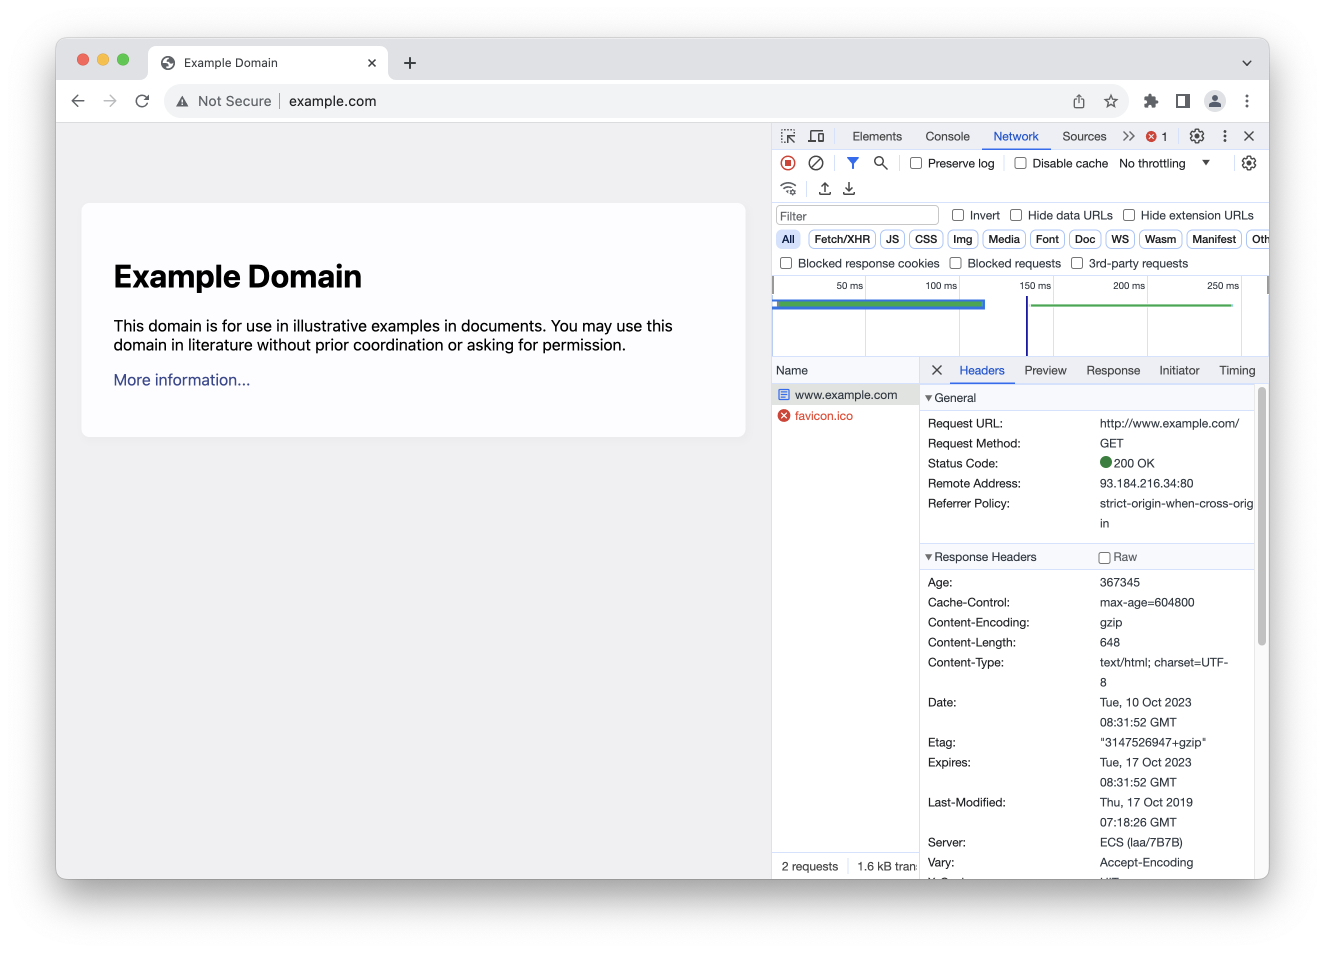
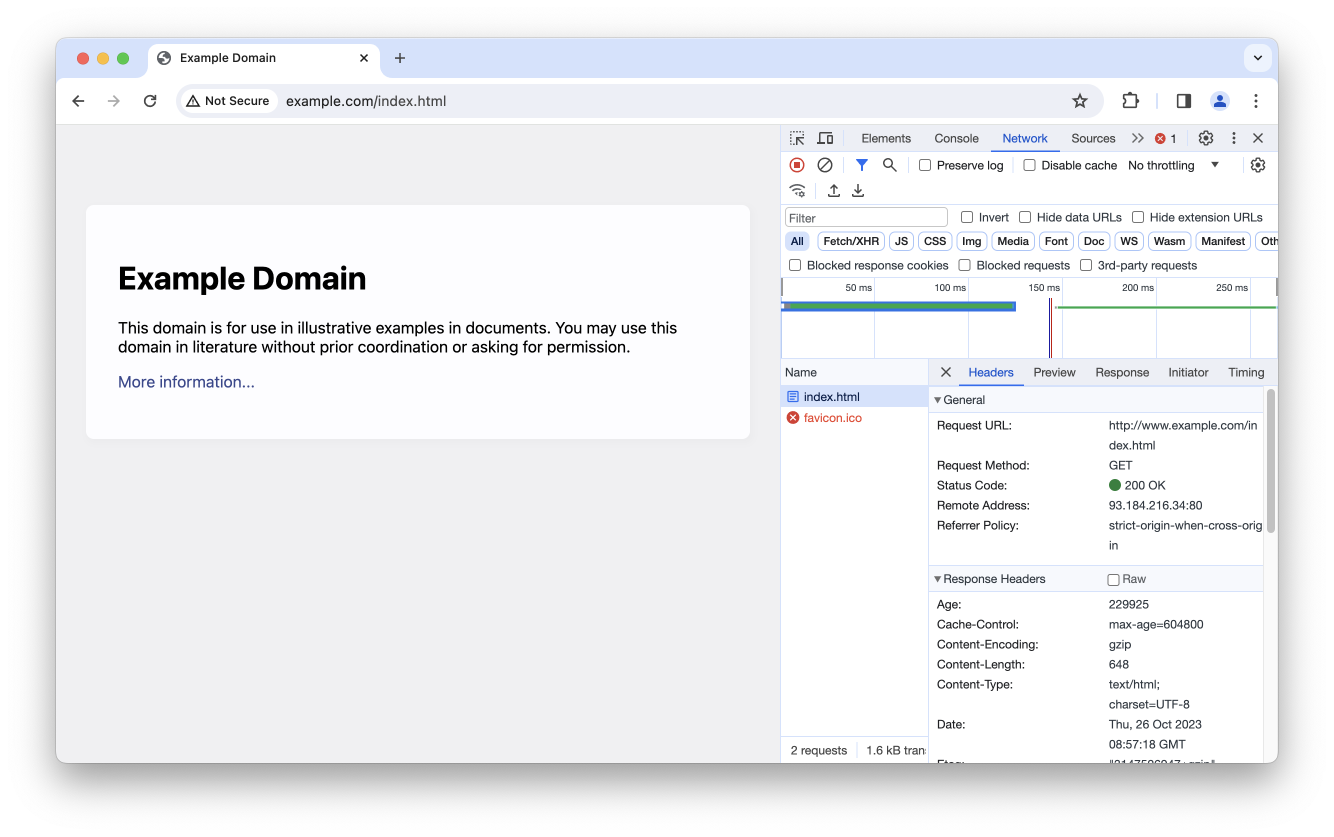
Updated.

Changed region(s): [[0.0309, 0.0311, 0.9592, 0.9319], [0.0619, 0.2796, 0.526, 0.4659]]

diff --git a/tcpip202310/index.html b/tcpip202310/index.html
@@ -96,12 +96,12 @@ TCP/IPネットワークに関する最低限の知識をまとめた。
   <li> ブラウザで <kbd>F12</kbd>キーを押して開発用コンソールを開き、"Network" タブをクリック。</li>
   <li> タブ内で <a href="http://www.example.com/index.html">http://www.example.com/index.html</a> を開く。</li>
   <li> 右側にリクエスト一覧が表示される。</li>
-  <li> <code>www.example.com</code> を選択し、その横の "Headers" タブをクリック。</li>
+  <li> <strong>index.html</strong> を選択し、その横の <strong>Headers</strong> タブをクリック。</li>
   <li> "Response Headers" および "Request Headers" が表示される。</li>
 </ol>
 <div class="figure">
 <div>
-  <img src="http.png" width="1325" height="953">
+  <img src="http.png" width="1334" height="837">
 </div>
 </div>
 </div>
